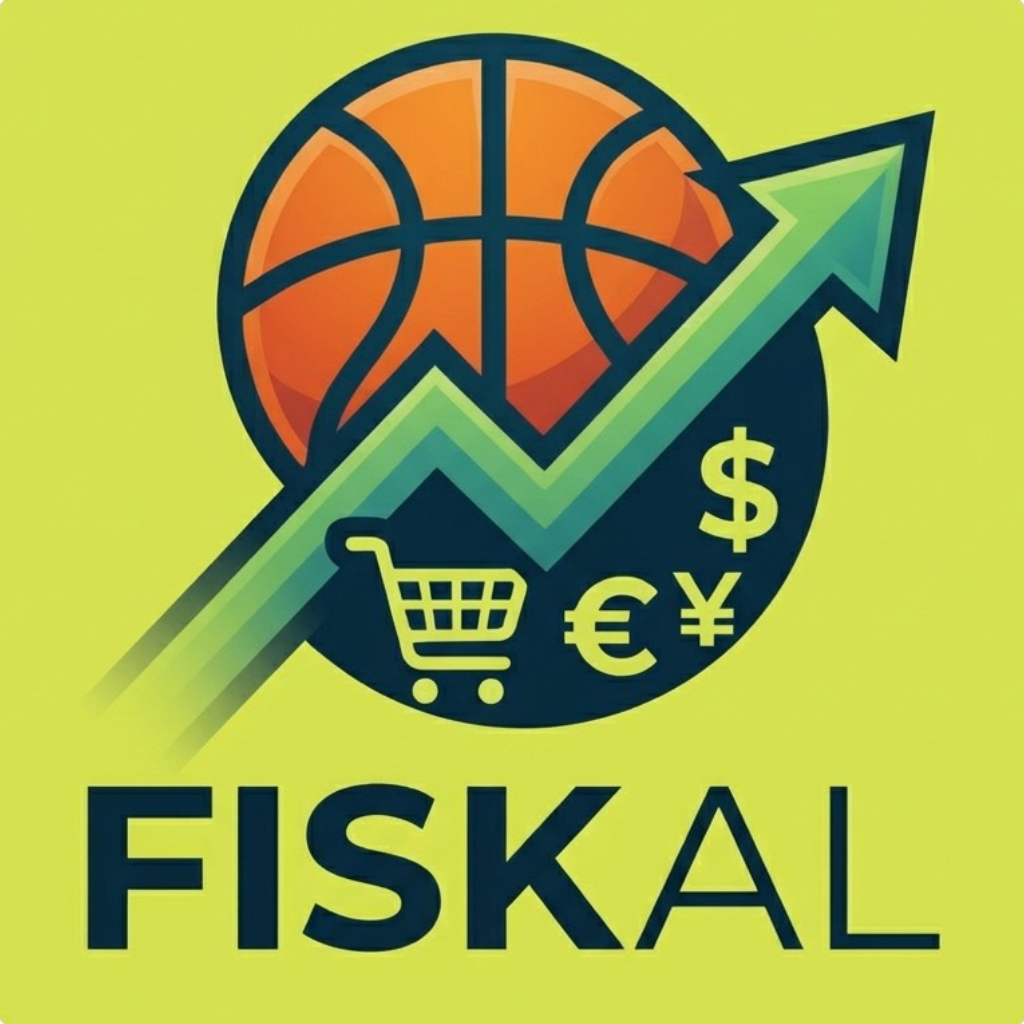
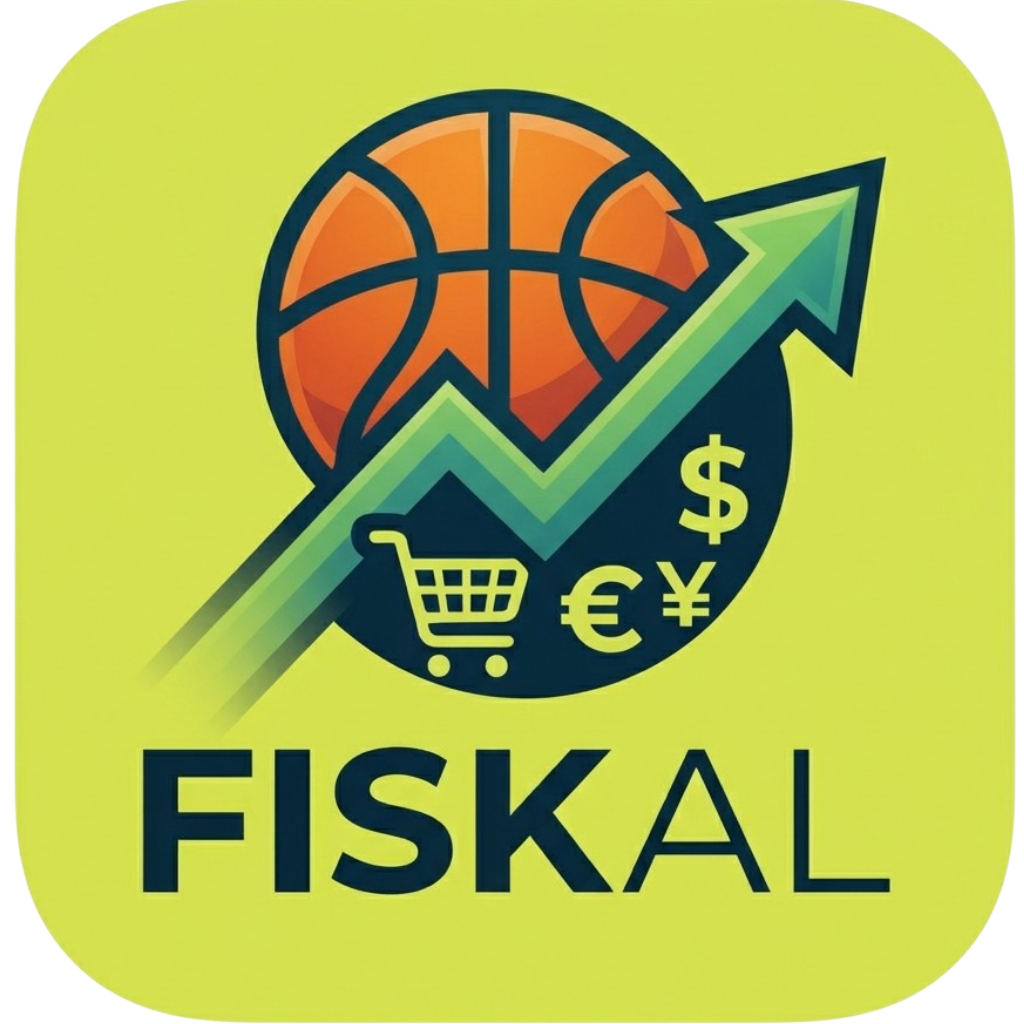
Ajustar iconos

diff --git a/components/login-screen.tsx b/components/login-screen.tsx
@@ -7,7 +7,7 @@ export function LoginScreen({ setupNeeded = false }: { setupNeeded?: boolean }) 
   return (
     <main className="login-shell">
       <div className="login-grain" aria-hidden="true" />
-      <header className="login-top"><a className="brand" href="#"><span className="brand-mark">f</span><span>Fiskal<span className="brand-period">.</span></span></a><span className="private-label"><LockKeyhole size={14} /> ESPACIO PRIVADO</span></header>
+      <header className="login-top"><a className="brand" href="#"><span className="brand-mark"><img src="/apple-icon.png" alt="" /></span><span>Fiskal<span className="brand-period">.</span></span></a><span className="private-label"><LockKeyhole size={14} /> ESPACIO PRIVADO</span></header>
       <section className="login-content">
         <div className="login-copy">
           <div className="eyebrow"><span className="eyebrow-dot" /> TU DINERO, EN ORDEN</div>

diff --git a/app/globals.css b/app/globals.css
@@ -259,3 +259,4 @@
 .kpi-dash { background: #899b52; }
 .chart-legend i { background: var(--brand-dark); }
 .commerce-ranking-track i { background: linear-gradient(90deg, var(--brand-lime), var(--brand-dark)); }
+.login-top .brand-mark { width: 34px; height: 34px; overflow: hidden; border-radius: 0; background: transparent; }
